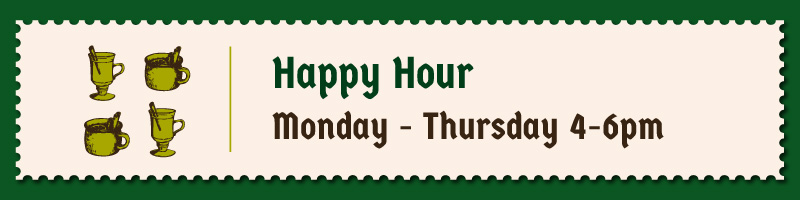
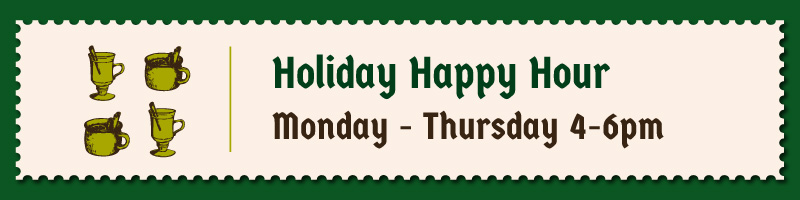
Add files via upload

Changed region(s): [[0.375, 0.27, 0.7812, 0.51]]

diff --git a/newsletter-HappThisWeek-1217/SCM-Dec-Newsletter-HappThisWeek-Ad-1217.html b/newsletter-HappThisWeek-1217/SCM-Dec-Newsletter-HappThisWeek-Ad-1217.html
@@ -1,0 +1,326 @@
+<!doctype html>
+<!--Quite a few clients strip your Doctype out, and some even apply their own. Many clients do honor your doctype and it can make things much easier if you can validate constantly against a Doctype.-->
+<html>
+<head>
+<meta charset="UTF-8">
+<meta name="viewport" content="width=device-width, initial-scale=1.0">
+<title>Seattle Christmas Market</title>
+
+<!-- Please use an inliner tool to convert all CSS to inline as inpage or external CSS is removed by email clients -->
+<!-- important in CSS is used to prevent the styles of currently inline CSS from overriding the ones mentioned in media queries when corresponding screen sizes are encountered -->
+
+<style type="text/css">
+body {
+	margin: 0;
+}
+body, table, td, p, a, li, blockquote {
+	-webkit-text-size-adjust: none!important;
+	font-family: sans-serif;
+	font-style: normal;
+	font-weight: 400;
+}
+button {
+	width: 90%;
+}
+
+@media screen and (max-width:600px) {
+/*styling for objects with screen size less than 600px; */
+body, table, td, p, a, li, blockquote {
+	-webkit-text-size-adjust: none!important;
+	font-family: sans-serif;
+}
+table {
+	/* All tables are 100% width */
+	width: 100%;
+}
+.footer {
+	/* Footer has 2 columns each of 48% width */
+	height: auto !important;
+	max-width: 48% !important;
+	width: 48% !important;
+}
+table.responsiveImage {
+	/* Container for images in catalog */
+	height: auto !important;
+	max-width: 30% !important;
+	width: 30% !important;
+}
+table.responsiveContent {
+	/* Content that accompanies the content in the catalog */
+	height: auto !important;
+	max-width: 66% !important;
+	width: 66% !important;
+}
+.top {
+	/* Each Columnar table in the header */
+	height: auto !important;
+	max-width: 48% !important;
+	width: 48% !important;
+}
+.catalog {
+	margin-left: 0%!important;
+}
+}
+
+@media screen and (max-width:480px) {
+/*styling for objects with screen size less than 480px; */
+body, table, td, p, a, li, blockquote {
+	-webkit-text-size-adjust: none!important;
+	font-family: sans-serif;
+}
+table {
+	/* All tables are 100% width */
+	width: 100% !important;
+	border-style: none !important;
+}
+.footer {
+	/* Each footer column in this case should occupy 96% width  and 4% is allowed for email client padding*/
+	height: auto !important;
+	max-width: 96% !important;
+	width: 96% !important;
+}
+.table.responsiveImage {
+	/* Container for each image now specifying full width */
+	height: auto !important;
+	max-width: 96% !important;
+	width: 96% !important;
+}
+.table.responsiveContent {
+	/* Content in catalog  occupying full width of cell */
+	height: auto !important;
+	max-width: 96% !important;
+	width: 96% !important;
+}
+.top {
+	/* Header columns occupying full width */
+	height: auto !important;
+	max-width: 100% !important;
+	width: 100% !important;
+}
+.catalog {
+	margin-left: 0%!important;
+}
+button {
+	width: 90%!important;
+}
+}
+</style>
+	
+<style>
+a:link {
+  color: deepskyblue;
+  background-color: transparent;
+  text-decoration: none;
+}
+
+a:visited {
+  color: mediumpurple;
+  background-color: transparent;
+  text-decoration: none;
+}
+
+a:hover {
+  color: red;
+  background-color: transparent;
+  text-decoration: underline;
+}
+
+a:active {
+  color: yellow;
+  background-color: transparent;
+  text-decoration: underline;
+}
+</style>
+	
+</head>
+<body yahoo="yahoo">
+<table width="100%" cellspacing="0" cellpadding="0">
+  <tbody>
+    <tr>
+      <td><table bgcolor="#0B5622" width="600"  align="center" cellpadding="0" cellspacing="0">
+          <!-- Main Wrapper Table with initial width set to 600px -->
+          <tbody>
+            <tr> 
+              <td style="font-size: 0; line-height: 0;" height="20">
+				  
+				  <table bgcolor="#0b5622" align="left"  cellpadding="0" cellspacing="0" >
+                  <tr>
+                    <td ><a href="https://seattlechristmasmarket.com/"><img src="images/SCM-July-Newsletter2-header1.jpg" alt="Seattle Christmas Market | Nov 20 - Dec 24 | Seattle Center" height="" width="600px" class=""></a></td>
+                  </tr>
+                  <tr>
+                    <td >
+						<a href="https://seattlechristmasmarket.com/#hours-and-tickets"><img src="images/Head-btn-310-1.jpg" alt="Buy Tickets" height="" width="155px" class=""></a>
+						<a href="https://seattlechristmasmarket.com/#hours-and-tickets"><img src="images/Head-btn-188-2.jpg" alt="Hours and Tickets" height="" width="94px" class=""></a>
+						<a href="https://seattlechristmasmarket.com/plan-your-trip/"><img src="images/Head-btn-196-3.jpg" alt="Plan Your Trip" height="" width="98px" class=""></a>
+						<a href="https://seattlechristmasmarket.com/vendors/"><img src="images/Head-btn-138-4.jpg" alt="Vendors" height="" width="69px" class=""></a>
+						<a href="https://seattlechristmasmarket.com/attractions/"><img src="images/Head-btn-222-5.jpg" alt="Happening at SCM" height="" width="111px" class=""></a>
+					  	<img src="images/Head-btn-146-6.jpg" alt="Buy Tickets" height="" width="73px" class="">
+					</td>
+
+				  </tr>
+                  <tr>
+                    <td>
+						
+<!-- Header Title and 1st paragraph -->
+						<table width="100%" height="187" cellspacing="0" cellpadding="0" bgcolor="#FDF1E6" background="images/HappThisWeek-Image-1217.jpg" style="background-size: 100%; background-repeat: no-repeat;">
+						<tr height="428px"><p>&nbsp;</p></tr>
+						<tr>
+							<td>
+								
+							<table width="600px" align="center">
+								<tr>
+									<td width="60px"></td>
+								<td align="left" style="font-size: 14px; font-style: normal; font-weight: 100; color: #000000; line-height: 1.4; text-align:left; padding:10px 10px 0px 10px; font-family: Segoe, 'Segoe UI', 'DejaVu Sans', 'Trebuchet MS', Verdana, 'sans-serif'">
+								<p align="center">It’s not too late to experience all of the holiday festivities at the Seattle Christmas Market—but hurry before the elves head back north.</p>
+								<p align="center">12/24 is your LAST DAY to visit the market. Be sure to snag your tickets before then, and if you’re hoping to take advantage of our $7 tickets, visit before 12/19.</p>
+					  			</td>
+									<td width="60px"></td>
+								</tr>
+							</table>
+								
+							</td>
+						</tr>
+						<tr height="0px"><p>&nbsp;</p></tr>
+						</table>
+						
+					  </td>
+                  </tr>
+                </table>
+				
+				</td>
+            </tr>
+			  
+<!-- Stamps -->
+            <tr> 
+              <td>
+				  
+				  <table width="600" align="center" cellpadding="0" cellspacing="0">
+					  
+           			<tr> <!-- spacer row --> <td style="font-size: 0; line-height: 0;" height="40"></td> </tr>
+					  
+                  	<tr> 
+						<td colspan="5" align="left" style="font-size: 14px; font-style: normal; font-weight: 100; color: #ffffff; line-height: 1.2; text-align:left; vertical-align: middle; padding:10px 110px 10px 110px; font-family: Segoe, 'Segoe UI', 'DejaVu Sans', 'Trebuchet MS', Verdana, 'sans-serif'"><strong>There was even more programming at the market this year. Didn’t have a chance to catch it all? Here are some last chances to join in on the fun:</strong></td>
+					</tr> 					  
+					  
+					<tr> <!-- spacer row --> <td style="font-size: 0; line-height: 0;" height="10"></td> </tr>
+					  	
+                  	<tr height="auto"> 
+						<td width="100px"></td>
+                    	<td valign="top" ><a href="https://seattlechristmasmarket.com/attractions/"><img src="images/Stamp-last-1.jpg" width="190" alt=""></a></td>
+						<td width="20px"></td>
+                    	<td valign="top" ><a href="https://seattlechristmasmarket.com/attractions/"><img src="images/Stamp-last-2.jpg" width="190" alt=""></a></td>
+						<td width="100px"></td>
+					</tr>
+					  
+           			<tr> <!-- spacer row --> <td style="font-size: 0; line-height: 0;" height="20"></td> </tr>	
+					  
+                  	<tr height="auto"> 
+						<td width="100px"></td>
+                    	<td valign="top" ><a href="https://seattlechristmasmarket.com/attractions/"><img src="images/Stamp-last-3.jpg" width="190" alt=""></a></td>
+						<td width="20px"></td>
+                    	<td valign="top" ><a href="https://seattlechristmasmarket.com/attractions/"><img src="images/Stamp-last-4.jpg" width="190" alt=""></a></td>
+						<td width="100px"></td>
+					</tr>
+					  
+           			<tr> <!-- spacer row --> <td style="font-size: 0; line-height: 0;" height="20"></td> </tr>	
+					  
+                  	<tr height="auto"> 
+						<td width="100px"></td>
+                    	<td valign="top" ><a href="https://seattlechristmasmarket.com/attractions/"><img src="images/Stamp-last-5.jpg" width="190" alt=""></a></td>
+					</tr>
+					  
+           			<tr> <!-- spacer row --> <td style="font-size: 0; line-height: 0;" height="20"></td> </tr>						  
+					  
+
+                  	<tr height="auto" align="center"> 
+                    	<td colspan="5" valign="top" align="center"><a href="https://seattlechristmasmarket.com/attractions/"><img src="images/Stamp-400px.jpg" width="400" alt=""></a></td>
+					</tr>					  
+					  
+           			<tr> <!-- spacer row --> <td style="font-size: 0; line-height: 0;" height="10"></td> </tr>
+					  
+                  	<tr height="auto" align=""> 
+						<td width="100px"></td>
+                    	<td colspan="3" valign="top" align="center"><img src="images/HEAD-WLFTSY.jpg" width="300" alt="Special Events this week:"></td>
+						<td width="100px"></td>
+					</tr>
+					  
+                  	<tr> 
+						<td colspan="5" align="left" style="font-size: 12px; font-style: normal; font-weight: 100; color: #ffffff; line-height: 1.2; text-align:left; vertical-align: middle; padding:10px 20px 10px 64px; font-family: Segoe, 'Segoe UI', 'DejaVu Sans', 'Trebuchet MS', Verdana, 'sans-serif'">The holidays are upon us and we hope we’ll get to celebrate together! Unwind from school/work, take a moment, and turn on Christmas at the Seattle Christmas Market. </td>
+					</tr>
+					  <tr> 
+            	  <td style="font-size: 0; line-height: 0;" height="20"></td>
+          		  </tr>
+					  
+                </table>
+				  
+				</td>
+            </tr>
+            <tr> 
+              <td style="font-size: 0; line-height: 0;" height="0">
+				  
+				  
+				<table width="600" align="center" background="images/Stamp-600px.jpg" style="background-size: 100%; background-repeat: no-repeat;" cellpadding="0" cellspacing="0">
+						<tr height="0px"><p>&nbsp;</p></tr>
+						<tr>
+							<td>
+
+							</td>
+						</tr>
+						<tr height="0px"><p>&nbsp;</p></tr>
+				</table>
+				  
+<!-- BUY BUTTONS -->
+				<table width="600" align="center" cellpadding="0" cellspacing="0">
+                  <tr>
+                    <td><a href="https://seattlechristmasmarket.com/attractions/"><img src="images/Buy-btn-1-482.jpg" height="" width="241px" alt="Buy workshop tickets"/></a></td>
+                    <td><a href="https://seattlechristmasmarket.com/attractions/"><img src="images/Buy-btn-2-312.jpg" height="" width="156px" alt="Buy event tickets"/></a></td>
+                    <td><a href="https://seattlechristmasmarket.com/#hours-and-tickets"><img src="images/Buy-btn-3-406.jpg" height="" width="203px" alt="Buy season pass"/></a></td>
+				</tr>
+				</table>
+				  
+				  
+<!-- Social Icons -->				  
+				<table width="600" align="center" cellpadding="0" cellspacing="0">
+                  <tr>
+                    <td><a href="https://seattlechristmasmarket.com/"><img src="images/SCM-July-Newsletter-footer-social-1.jpg" width="328" alt=""/></a></td>
+					<td><a href="https://www.facebook.com/seattlechristmas"><img src="images/SCM-July-Newsletter-footer-social-2.jpg" width="52" alt=""/></a></td>
+					<td><a href="https://www.instagram.com/seattlechristmas/"><img src="images/SCM-July-Newsletter-footer-social-3.jpg" width="52" alt=""/></a></td>
+					<td><a href="https://www.tiktok.com/@seattlechristmasmarket"><img src="images/SCM-July-Newsletter-footer-social-4.jpg" width="52" alt=""/></a></td>
+					<td><a href="https://seattlechristmasmarket.com/"><img src="images/SCM-July-Newsletter-footer-social-5.jpg" width="116"  alt=""/></a></td>
+				  </tr>
+				</table>
+				  
+<!-- Footer -->				  
+				<table width="600" align="center" cellpadding="0" cellspacing="0">
+                  <tr>
+                    <td valign="top"><a href="https://seattlechristmasmarket.com/"><img src="images/SCM-July-Newsletter-footer-icons.jpg" alt="Holiday icons" height="" width="600px" class=""></a></td>
+                  </tr>
+                </table>
+				
+				</td>
+            </tr>
+            <tr>
+              <td></td>
+            </tr>
+          </tbody>
+        </table>
+		
+		</td>
+    </tr>
+  
+	
+    <tr>
+    	<td>
+			
+<!-- AD UNIT -->		 
+<table bgcolor="#ffffff" width="600" height="200" align="center" cellpadding="0" cellspacing="0">
+	<tr><td style="padding:10px 0px 40px 0px;" align="center"><a href="https://www.nhl.com/kraken/tickets/ticket-bundles"><img src="images/Pepsi+Bundles+1200x400+email.jpg" width="600" alt=""></a></td></tr>
+</table> 
+			
+		</td>
+	</tr>
+</tbody>	
+</table>
+	
+</body>
+</html>
